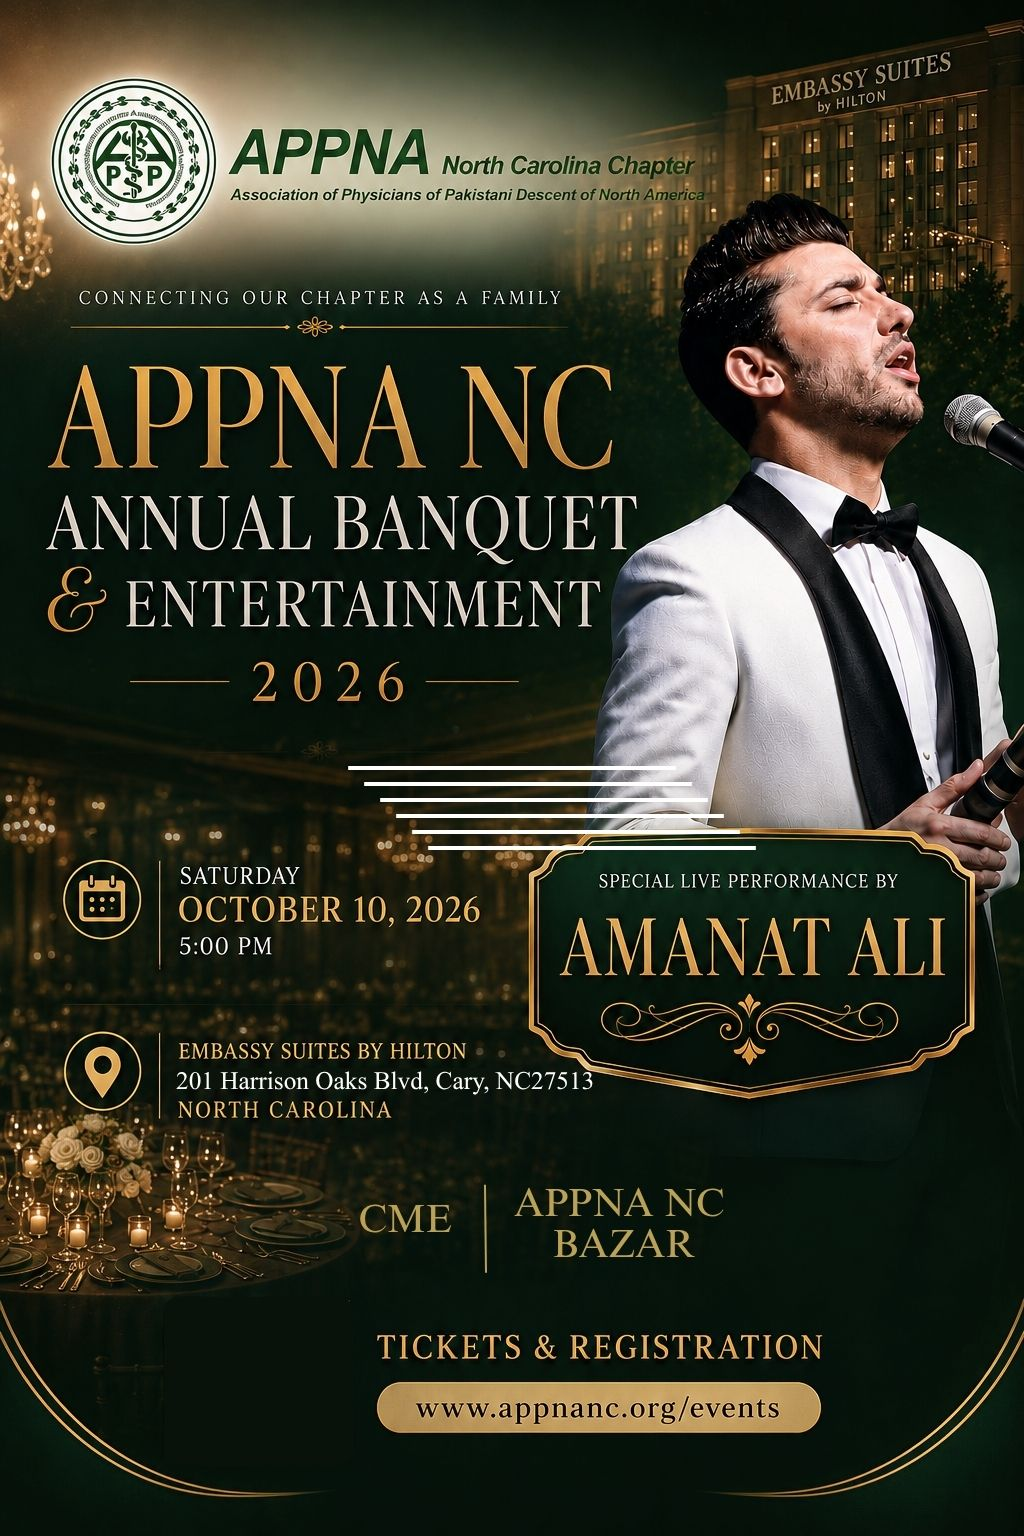
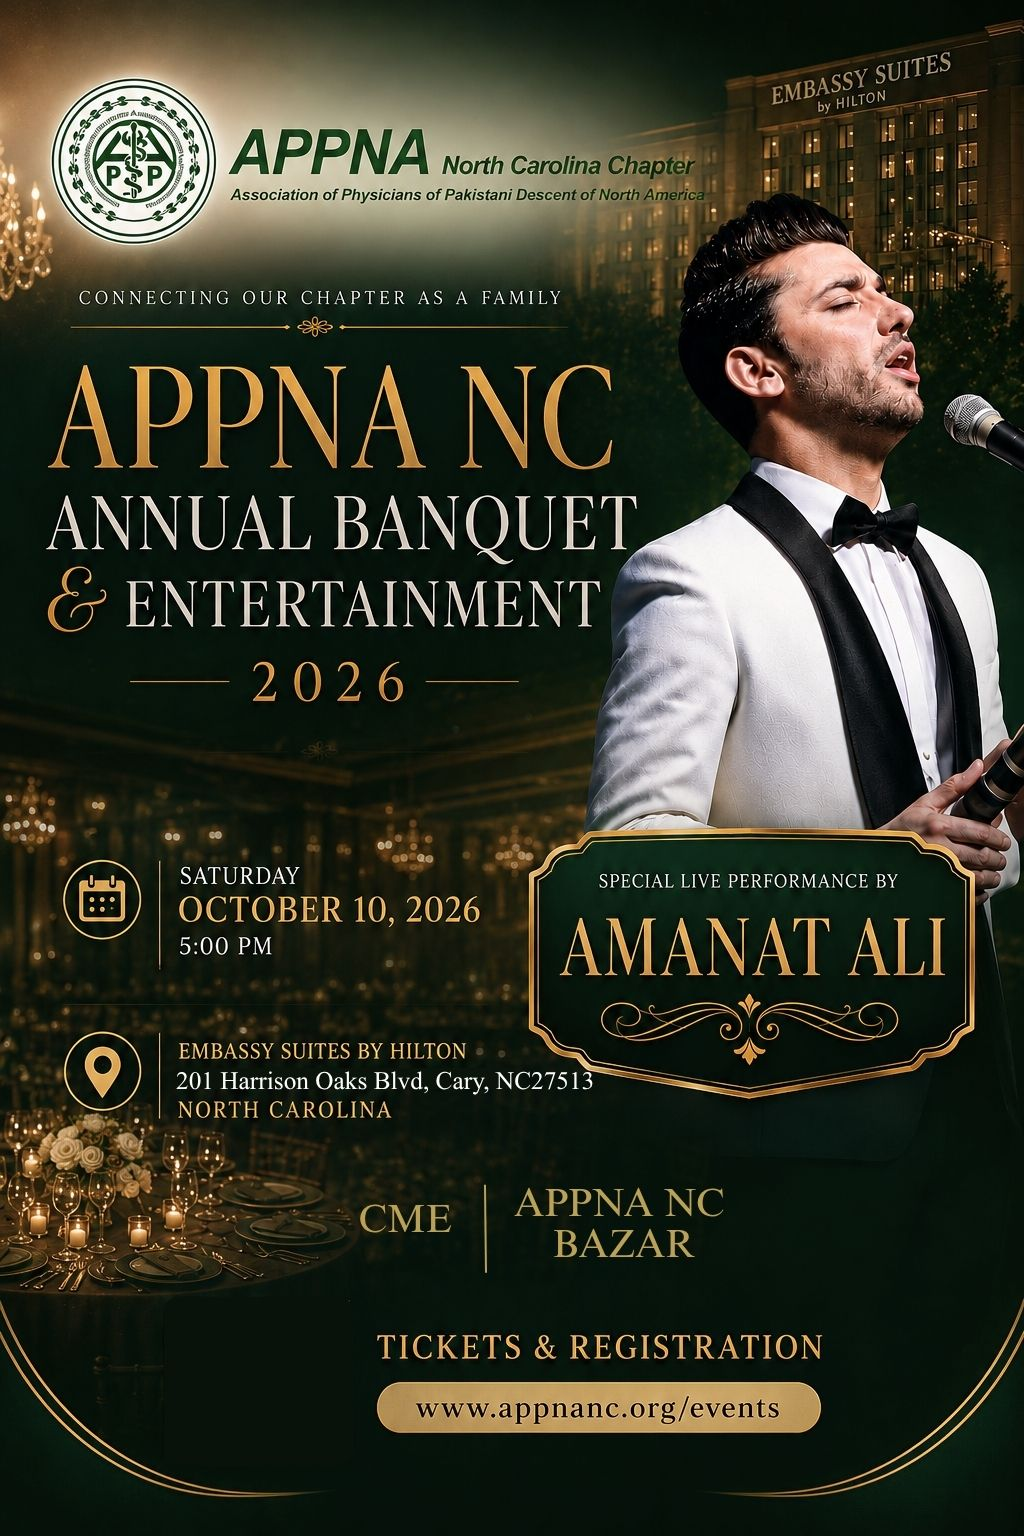
design update

Changed region(s): [[0.3438, 0.5, 0.7188, 0.5625]]

diff --git a/src/components/home/Flyers.jsx b/src/components/home/Flyers.jsx
@@ -1,0 +1,168 @@
+'use client';
+
+import { useState, useEffect, useRef, useCallback } from 'react';
+import Image from 'next/image';
+import { ChevronLeft, ChevronRight } from 'lucide-react';
+
+const SLIDES = [
+  { src: '/annual_banquet.png', alt: 'APPNA NC Annual Banquet & Entertainment 2026 flyer', caption: 'Annual Banquet & Entertainment' },
+  { src: '/concert.jpg', alt: 'Amanat Ali live performance', caption: 'Live Performance — Amanat Ali' },
+  { src: '/bazar.jpg', alt: 'APPNA NC Bazaar stalls', caption: 'The APPNA NC Bazaar' },
+  { src: '/bazar_audience.png', alt: 'Guests browsing the APPNA NC Bazaar', caption: 'A Night to Remember' },
+];
+
+const AUTOPLAY_MS = 4500;
+const SWIPE_THRESHOLD = 50;
+
+export default function EventFlyerSlider() {
+  const [index, setIndex] = useState(0);
+  const [paused, setPaused] = useState(false);
+  const trackRef = useRef(null);
+  const dragState = useRef({ startX: 0, dragging: false, delta: 0 });
+  const timerRef = useRef(null);
+
+  const count = SLIDES.length;
+  const goTo = useCallback((i) => setIndex(((i % count) + count) % count), [count]);
+  const next = useCallback(() => goTo(index + 1), [goTo, index]);
+  const prev = useCallback(() => goTo(index - 1), [goTo, index]);
+
+  // Autoplay — pauses on hover/drag
+  useEffect(() => {
+    if (paused) return;
+    timerRef.current = setInterval(() => setIndex((i) => (i + 1) % count), AUTOPLAY_MS);
+    return () => clearInterval(timerRef.current);
+  }, [paused, count]);
+
+  // Keyboard nav
+  useEffect(() => {
+    const onKey = (e) => {
+      if (e.key === 'ArrowLeft') prev();
+      if (e.key === 'ArrowRight') next();
+    };
+    window.addEventListener('keydown', onKey);
+    return () => window.removeEventListener('keydown', onKey);
+  }, [next, prev]);
+
+  // Pointer drag / swipe — scoped to the track only
+  const onPointerDown = (e) => {
+    dragState.current = { startX: e.clientX, dragging: true, delta: 0 };
+    setPaused(true);
+    trackRef.current?.setPointerCapture?.(e.pointerId);
+  };
+  const onPointerMove = (e) => {
+    if (!dragState.current.dragging) return;
+    dragState.current.delta = e.clientX - dragState.current.startX;
+  };
+  const onPointerUp = () => {
+    if (!dragState.current.dragging) return;
+    const { delta } = dragState.current;
+    if (delta > SWIPE_THRESHOLD) prev();
+    else if (delta < -SWIPE_THRESHOLD) next();
+    dragState.current = { startX: 0, dragging: false, delta: 0 };
+    setPaused(false);
+  };
+
+  // Arrow buttons live inside the draggable track, so every pointer/click
+  // event on them must be stopped here — otherwise the track's
+  // setPointerCapture() swallows the click before React ever sees it.
+  const stopAndRun = (fn) => (e) => {
+    e.stopPropagation();
+    fn();
+  };
+
+  return (
+    <section
+      className="relative max-w-4xl mx-auto px-4 sm:px-6 py-12 sm:py-16"
+      onMouseEnter={() => setPaused(true)}
+      onMouseLeave={() => setPaused(false)}
+    >
+      <div className="text-center mb-6 sm:mb-8">
+        <p className="text-xs font-bold uppercase tracking-widest text-[#7a1f3d]/80 mb-2">
+          This Year&apos;s Event
+        </p>
+        <h2 className="display-font text-2xl sm:text-3xl font-semibold text-gray-900">
+          A Look at the Evening
+        </h2>
+      </div>
+
+      {/* Calm, padded card frame around the slider */}
+      <div className="rounded-2xl bg-[#faf8f6] border border-gray-200/70 shadow-md shadow-gray-200/50 p-3 sm:p-4">
+        <div
+          ref={trackRef}
+          className="relative w-full overflow-hidden rounded-xl select-none touch-pan-y
+                     h-[clamp(280px,80vw,340px)]
+                     sm:h-[clamp(320px,55vw,420px)]
+                     lg:h-[clamp(400px,42vw,520px)]"
+          onPointerDown={onPointerDown}
+          onPointerMove={onPointerMove}
+          onPointerUp={onPointerUp}
+          onPointerLeave={onPointerUp}
+        >
+          <div
+            className="flex h-full transition-transform duration-500 ease-out"
+            style={{ transform: `translateX(-${index * 100}%)` }}
+          >
+            {SLIDES.map((slide) => (
+              <div key={slide.src} className="relative h-full w-full flex-shrink-0 bg-[#f1eeea]">
+                <Image
+                  src={slide.src}
+                  alt={slide.alt}
+                  fill
+                  sizes="(max-width: 768px) 100vw, 896px"
+                  className="object-contain p-2 sm:p-3"
+                  priority={slide === SLIDES[0]}
+                />
+                <div className="absolute inset-x-0 bottom-0 bg-gradient-to-t from-black/55 via-black/10 to-transparent px-4 sm:px-6 py-3 sm:py-4">
+                  <p className="display-font text-white text-sm sm:text-lg font-medium drop-shadow-sm">
+                    {slide.caption}
+                  </p>
+                </div>
+              </div>
+            ))}
+          </div>
+
+          {/* Prev / Next arrows */}
+          <button
+            type="button"
+            onPointerDown={(e) => e.stopPropagation()}
+            onClick={stopAndRun(prev)}
+            aria-label="Previous slide"
+            className="absolute left-2 sm:left-3 top-1/2 -translate-y-1/2 z-10
+                       h-8 w-8 sm:h-10 sm:w-10 rounded-full bg-white/95 hover:bg-white
+                       flex items-center justify-center shadow-sm transition-colors"
+          >
+            <ChevronLeft size={16} className="text-[#7a1f3d]" />
+          </button>
+          <button
+            type="button"
+            onPointerDown={(e) => e.stopPropagation()}
+            onClick={stopAndRun(next)}
+            aria-label="Next slide"
+            className="absolute right-2 sm:right-3 top-1/2 -translate-y-1/2 z-10
+                       h-8 w-8 sm:h-10 sm:w-10 rounded-full bg-white/95 hover:bg-white
+                       flex items-center justify-center shadow-sm transition-colors"
+          >
+            <ChevronRight size={16} className="text-[#7a1f3d]" />
+          </button>
+        </div>
+      </div>
+
+      {/* Dots */}
+      <div className="flex items-center justify-center gap-2 mt-4">
+        {SLIDES.map((slide, i) => (
+          <button
+            key={slide.src}
+            type="button"
+            onClick={() => goTo(i)}
+            aria-label={`Go to slide ${i + 1}`}
+            className="h-1.5 rounded-full transition-all duration-300"
+            style={{
+              width: i === index ? '20px' : '6px',
+              background: i === index ? '#7a1f3d' : '#e5e7eb',
+            }}
+          />
+        ))}
+      </div>
+    </section>
+  );
+}

diff --git a/src/app/(marketing)/upcoming_event/page.jsx b/src/app/(marketing)/upcoming_event/page.jsx
@@ -7,13 +7,7 @@ import {
 } from 'lucide-react';
 import Image from 'next/image';
 // import concert.jpg from '../../../public/concert.jpg';
-const SCHEDULE = [
-  { time: '5:00 PM', title: 'Doors Open and Bazaar Preview', desc: 'Arrive early to browse the APPNA NC Bazaar stalls before dinner service begins.', icon: Store },
-  { time: '6:30 PM',  title: 'Welcome and Community Remarks', desc: 'A short address from APPNA NC leadership on the year\'s community impact.', icon: Sparkles  },
-  { time: '8:00 PM', title: 'Gala Dinner Service', desc: 'A full multi-course dinner served to all registered guests.', icon: UtensilsCrossed },
-  { time: '8:30 PM', title: 'Live Performance - Amanat Ali', desc: 'An evening of live music from acclaimed vocalist Amanat Ali.', icon: Music },
-  { time: '10:00 PM', title: 'Bazaar Continues and Closing', desc: 'Stalls remain open as the evening winds down.', icon: Store },
-];
+
 
 const BAZAAR_CATEGORIES = [
   { label: 'Fashion and Jewelry', desc: 'Local boutiques and designers showcasing apparel and accessories.' },
@@ -175,33 +169,6 @@ export default function BanquetEventPage() {
             })}
           </div>
         </section>
-
-        <section id="schedule" className="max-w-4xl mx-auto px-6 sm:px-10 py-20 sm:py-28">
-          <div className="text-center mb-14">
-            <p className="text-xs font-bold uppercase tracking-widest text-[#7a1f3d] mb-2">The Evening</p>
-            <h2 className="display-font text-3xl sm:text-4xl font-semibold text-gray-900">How the night unfolds</h2>
-          </div>
-
-          <div className="relative pl-8 sm:pl-10">
-            <div className="timeline-line absolute left-[11px] sm:left-[13px] top-2 bottom-2 w-px opacity-15" />
-            <div className="space-y-10">
-              {SCHEDULE.map((item) => {
-                const Icon = item.icon;
-                return (
-                  <div key={item.title} className="relative">
-                    <div className="absolute -left-8 sm:-left-10 top-0 h-6 w-6 sm:h-7 sm:w-7 rounded-full bg-[#7a1f3d] flex items-center justify-center ring-4 ring-white">
-                      <Icon size={12} className="text-white" />
-                    </div>
-                    <p className="text-xs font-bold uppercase tracking-widest text-[#7a1f3d] mb-1">{item.time}</p>
-                    <h3 className="font-semibold text-gray-900 text-lg mb-1">{item.title}</h3>
-                    <p className="text-sm text-gray-500 leading-relaxed max-w-lg">{item.desc}</p>
-                  </div>
-                );
-              })}
-            </div>
-          </div>
-        </section>
-
         <section className="panel-bg noise-overlay relative overflow-hidden text-white">
           <div className="max-w-5xl mx-auto px-6 sm:px-10 py-20 sm:py-24 grid grid-cols-1 md:grid-cols-[1fr_1.2fr] gap-10 items-center">
             <div className="flex justify-center md:justify-start">

diff --git a/src/app/(marketing)/vendor_registration/page.jsx b/src/app/(marketing)/vendor_registration/page.jsx
@@ -12,10 +12,9 @@ const STALLS = [
     accent: '#7a1f3d',
     perks: [
       'General floor Placement',
-      'One complementry Banquet ticket',
+      'No complementry Banquet ticket',
       '1 person per booth',
       'Additional ticketed person allowed',
-      'Listed in the event program',
     ],
   },
   {
@@ -25,11 +24,9 @@ const STALLS = [
     popular: true,
     perks: [
       'Priority placement near the main entrance',
-      'No complementry Banquet tickets',
+      'One* complementry Banquet tickets',
       '1 person per booth',
-      'Additional ticketed person allowed',
-      'Listed in the event program',
-      
+      'Additional ticketed person allowed',     
     ],
   },
 ];

diff --git a/src/app/(marketing)/page.js b/src/app/(marketing)/page.js
@@ -1,12 +1,15 @@
 import HeroSection from "../../components/home/HeroSection";
 import PresidentMessage from "../../components/home/PresidentMessage";
 import About from "../../components/home/About";
+import Flyers from "../../components/home/Flyers";
+
 
 
 export default function Home() {
   return (
     <>
       <HeroSection />
+      <Flyers />
       <PresidentMessage />
       <About />
       {/* Other sections here */}
